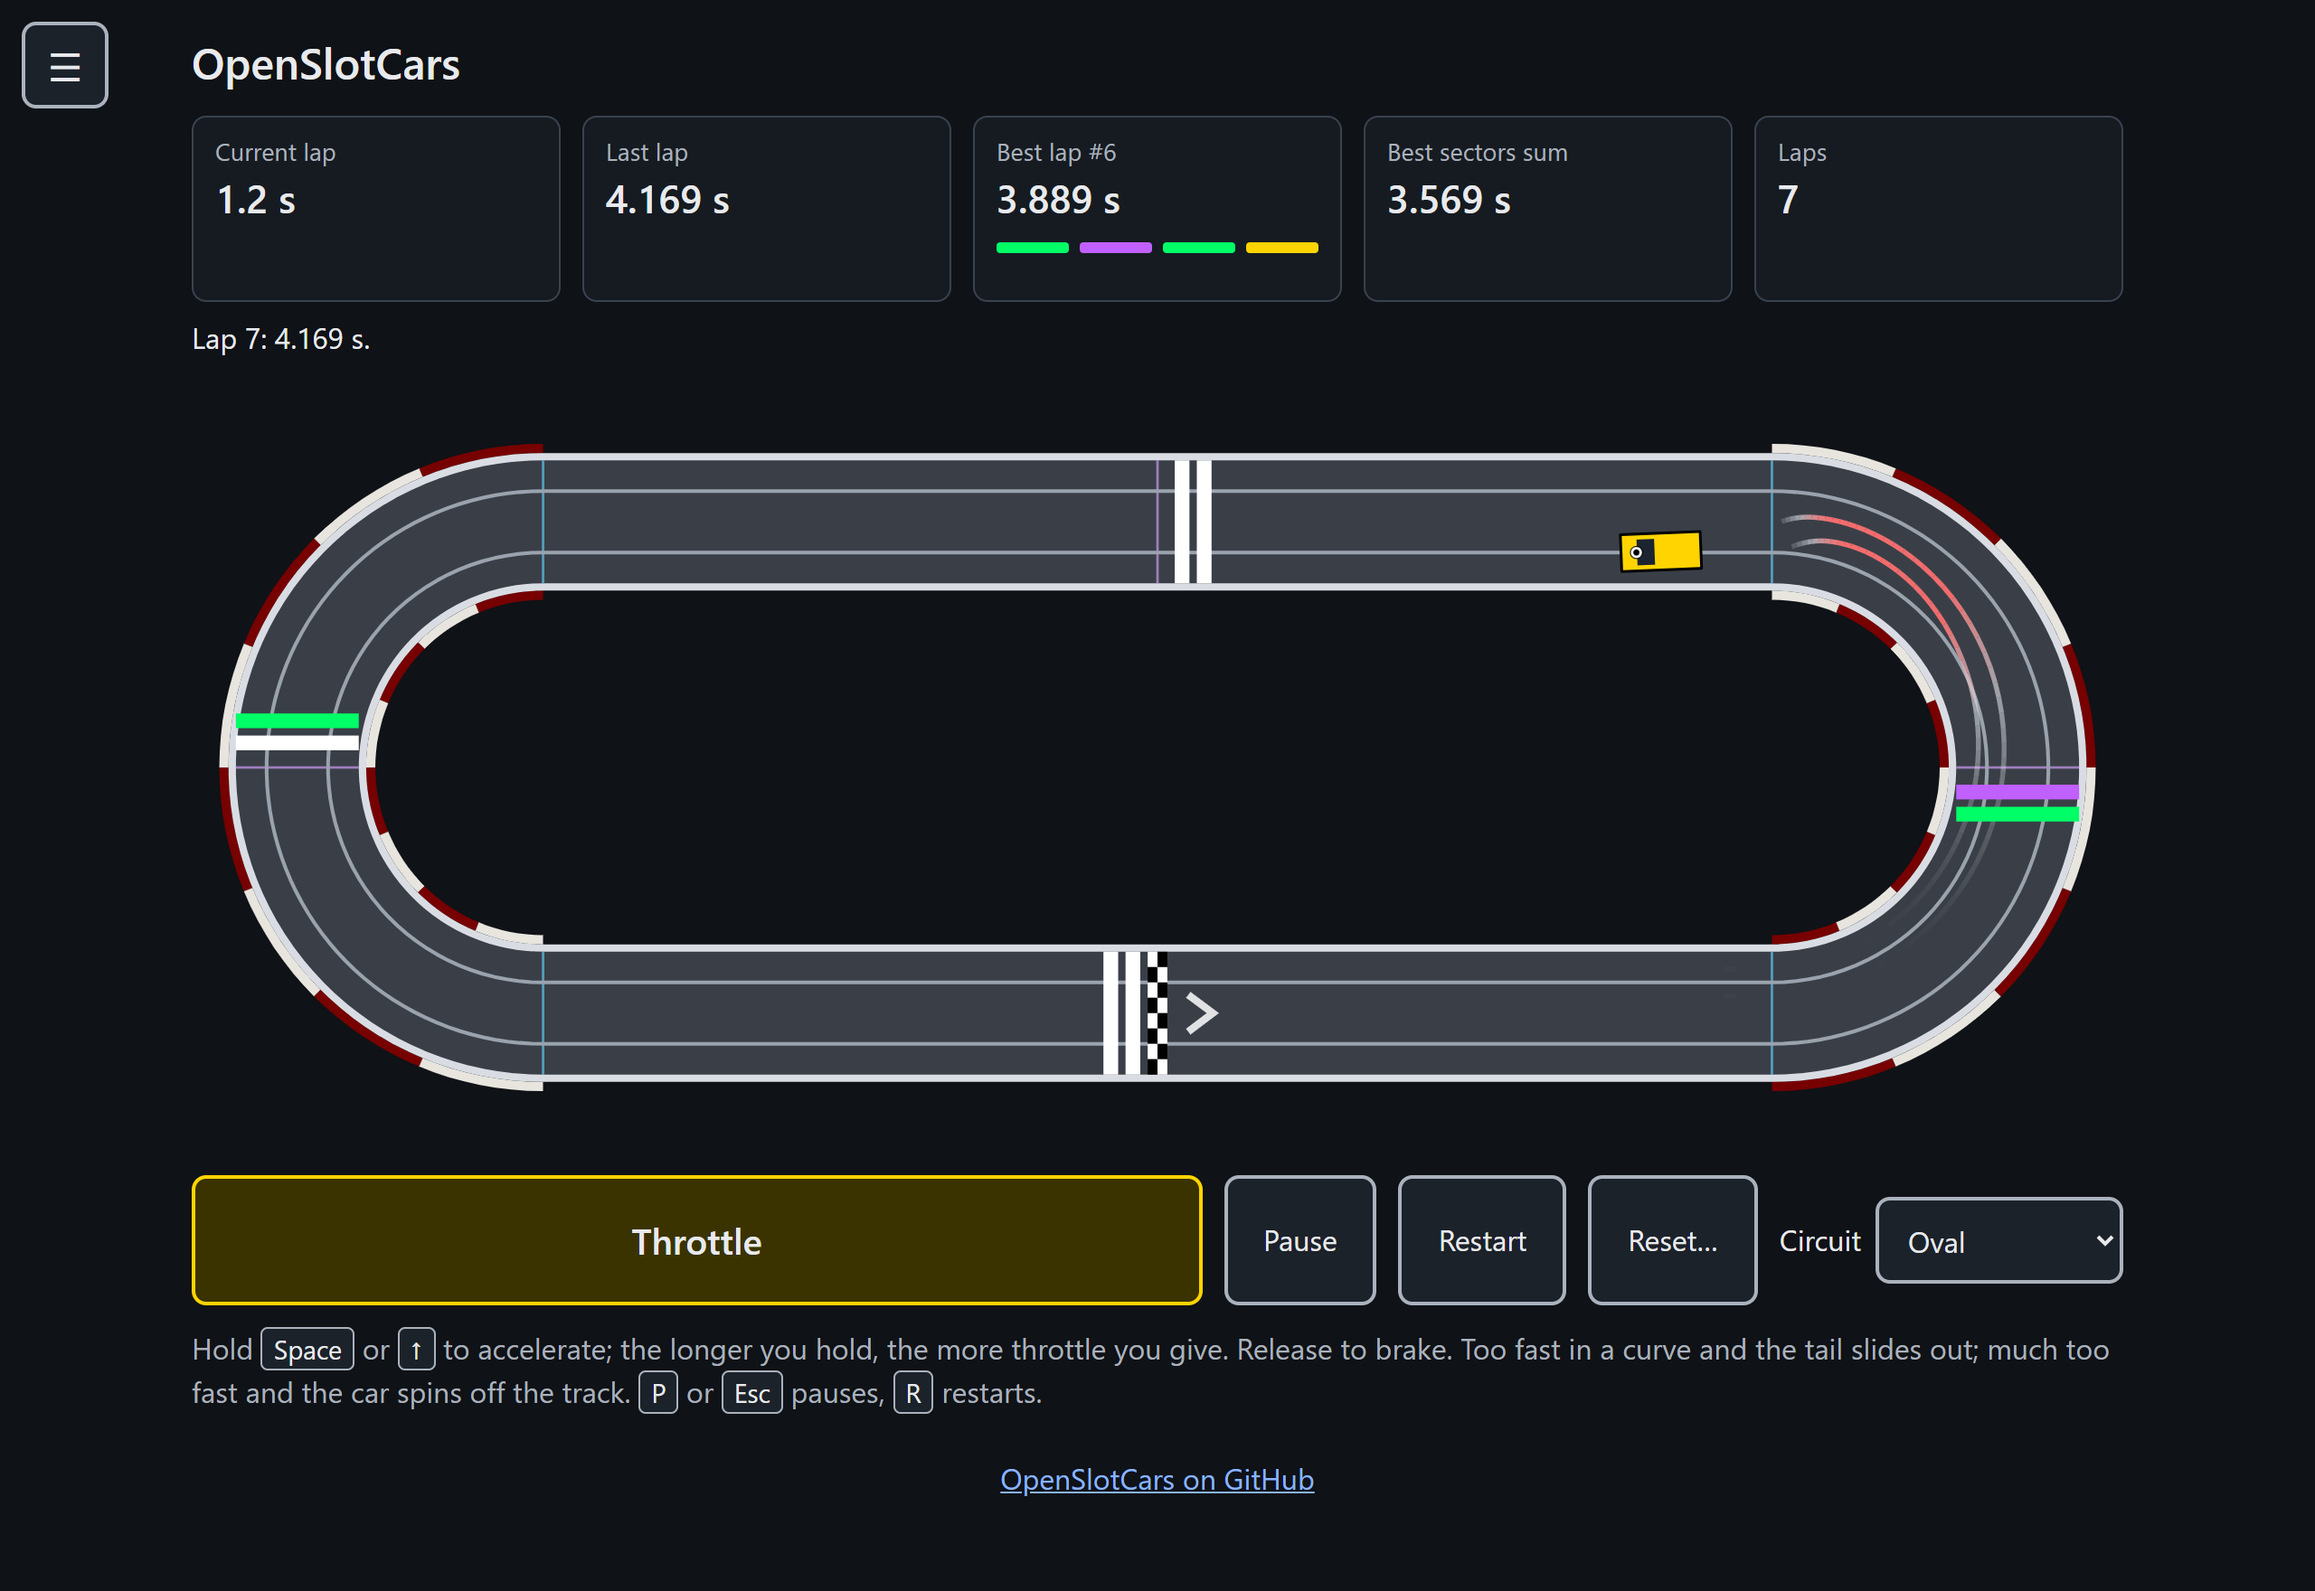
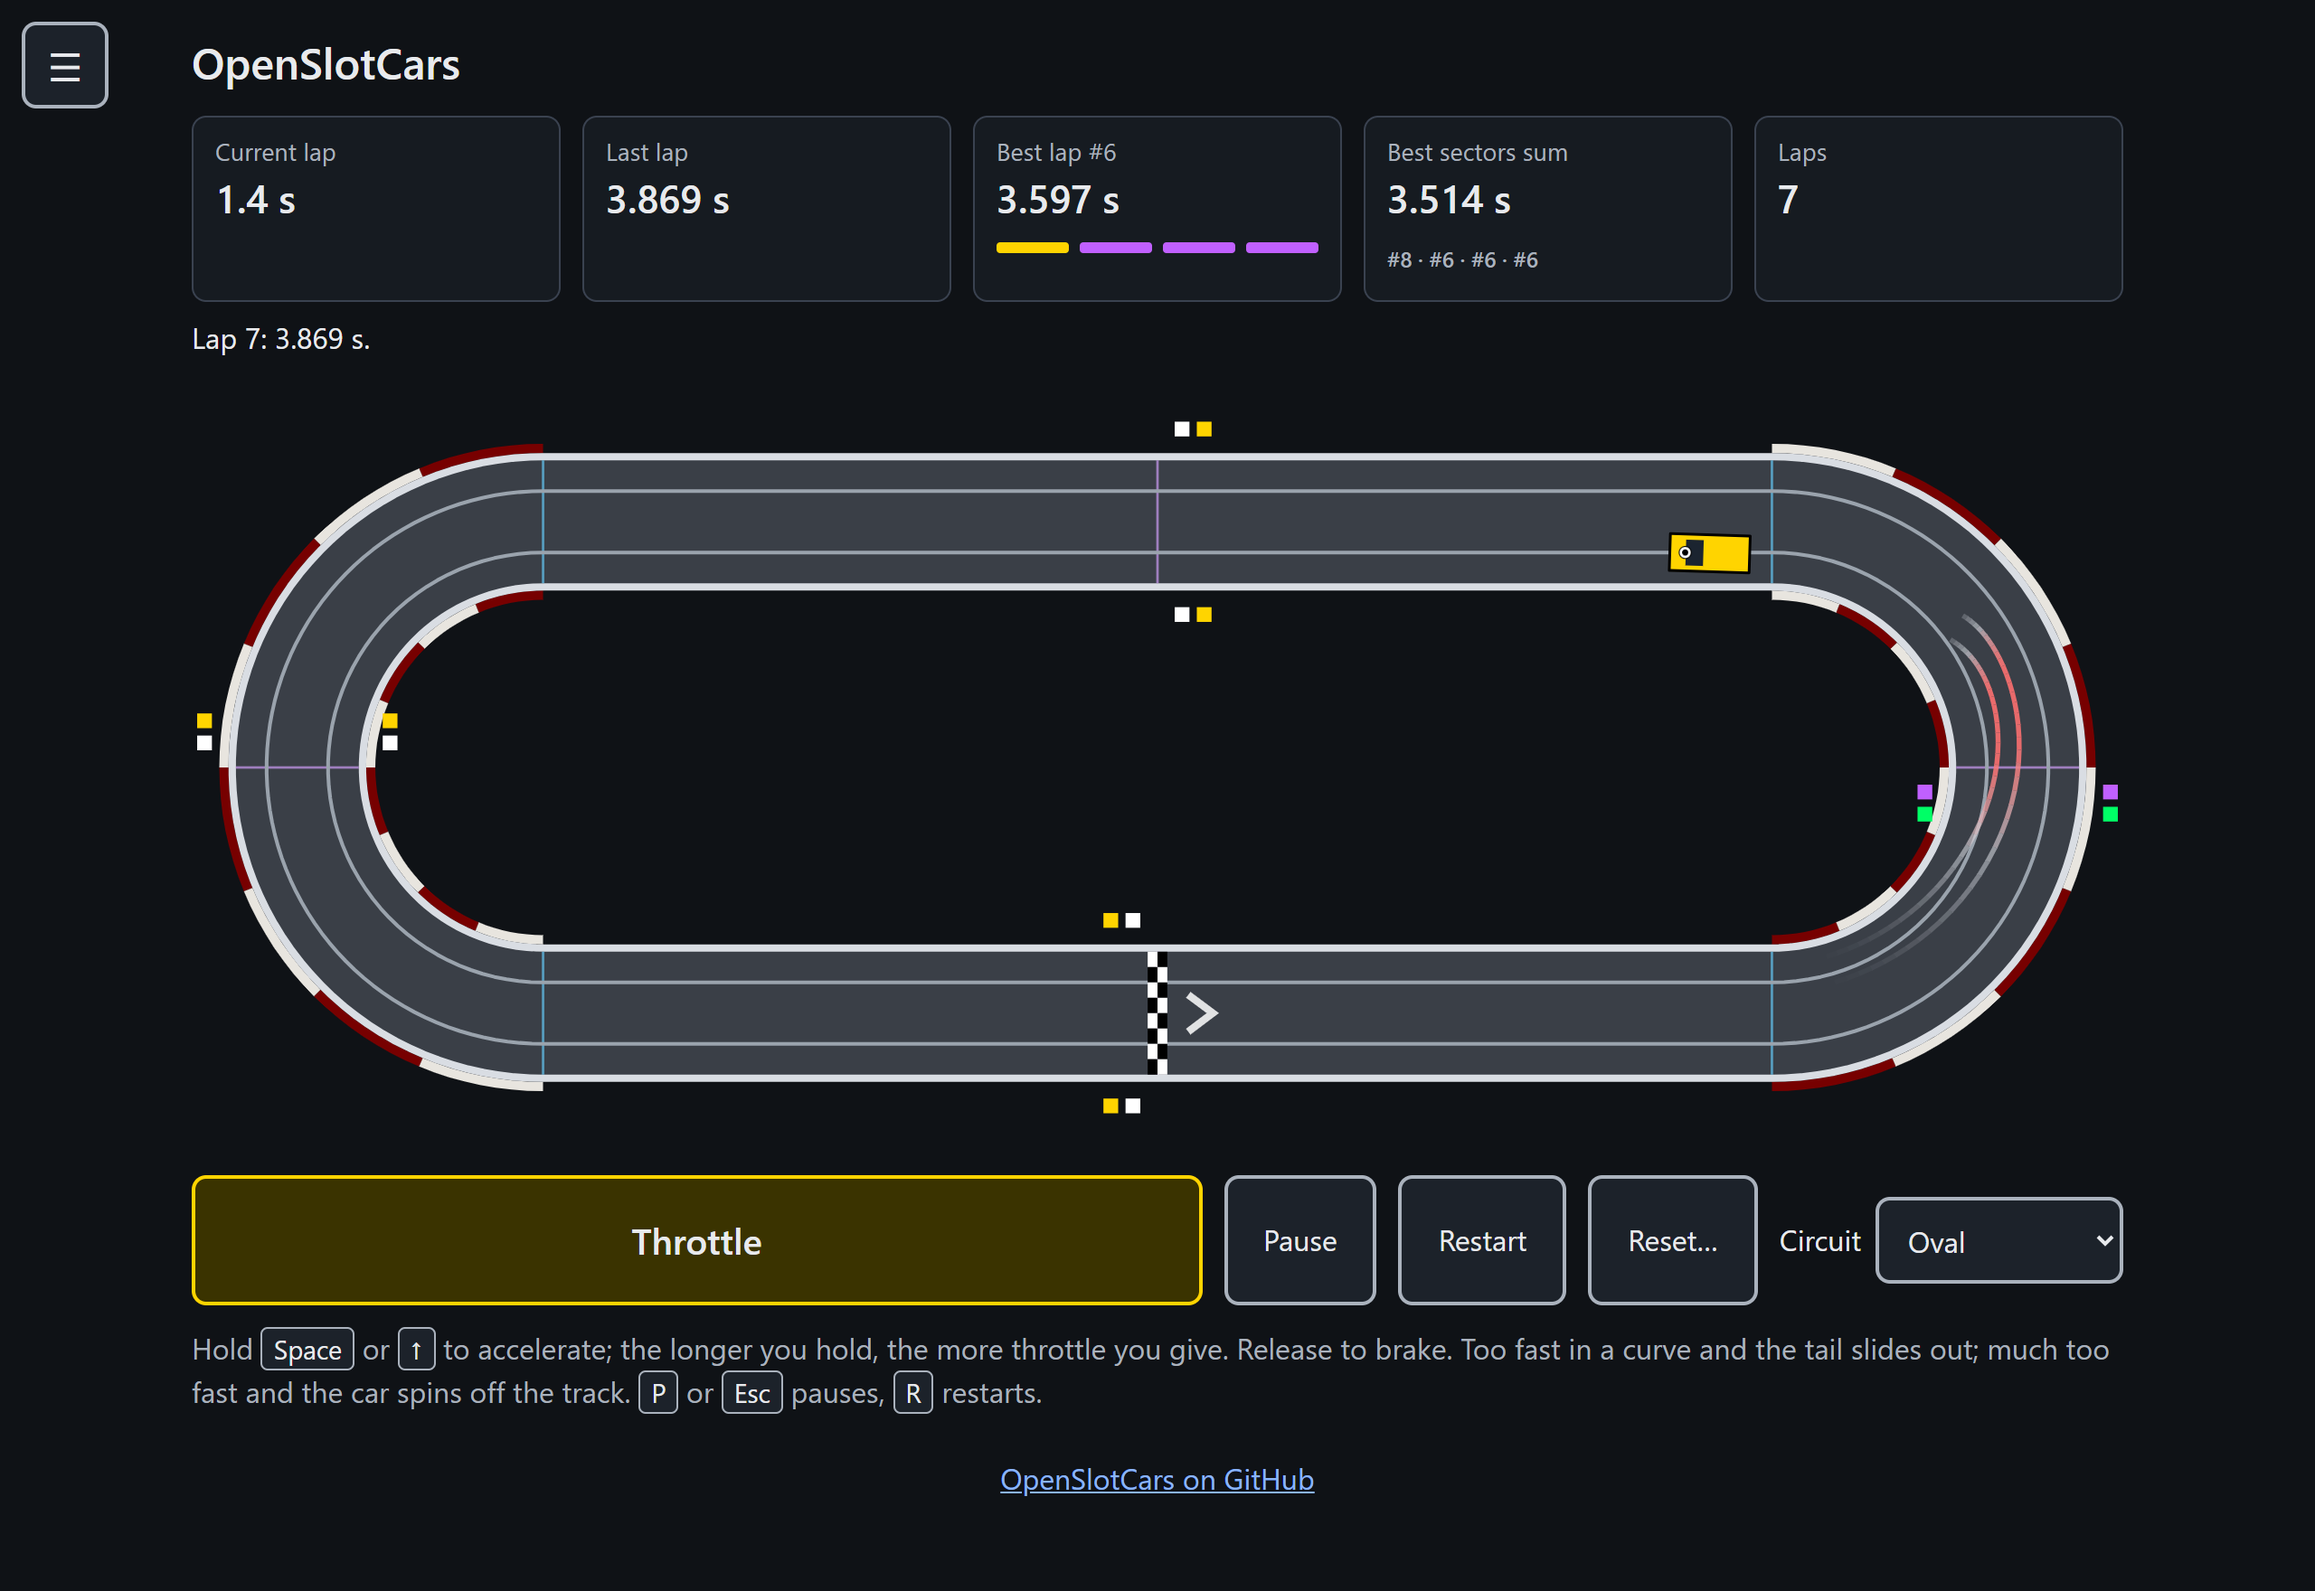
Updates the GUI screenshot with current timing details
Replaces the README GUI screenshot with a browser capture showing lap numbers for best sector records and the car accelerating out of a curve with bright red tire marks. Updates the alternative text to match the image.

Verified the scene in headless Edge with keyboard input and no runtime exceptions. The full Node test suite passed. No application code changed; touch devices and other browsers were not checked.

diff --git a/README.md b/README.md
@@ -11,7 +11,7 @@ Press `P` or `Esc` to pause, `R` to restart. Choose a track from the **Circuit**
 Lap and sector times are saved in your browser for each circuit. **Restart**
 keeps them; **Reset…** clears the current circuit's saved times after confirmation.
 
-![OpenSlotCars GUI after seven completed laps, with mixed sector indicators, green and purple track markers, and the car aligned on the straight after leaving red tire marks through the curve, with the throttle held down](docs/screenshot-gui.png)
+![OpenSlotCars GUI after seven completed laps, showing the lap numbers for the best sector records, colored sector indicators, and the car accelerating almost straight out of the curve with bright red tire marks behind it and the throttle held down](docs/screenshot-gui.png)
 
 ## Run locally
 
